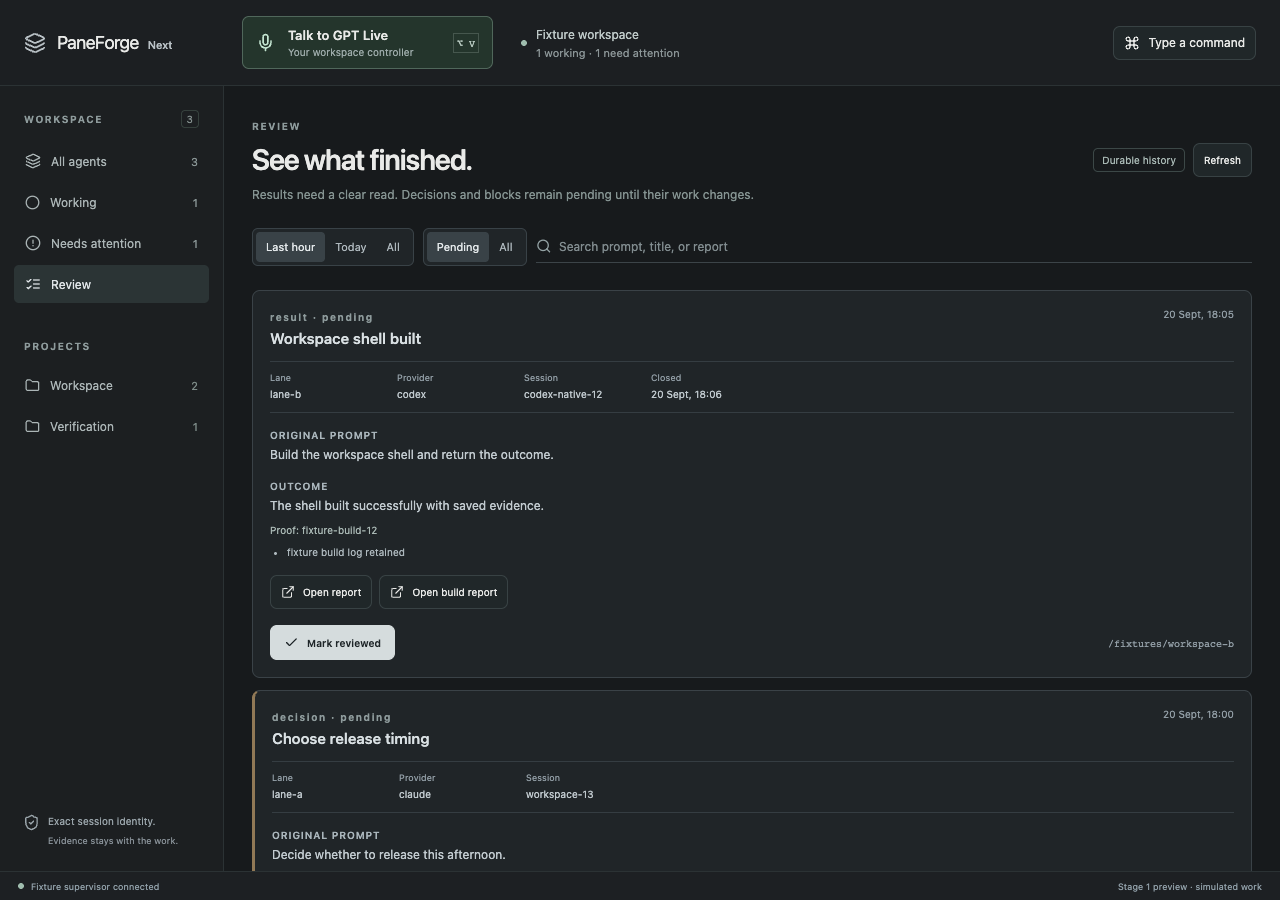
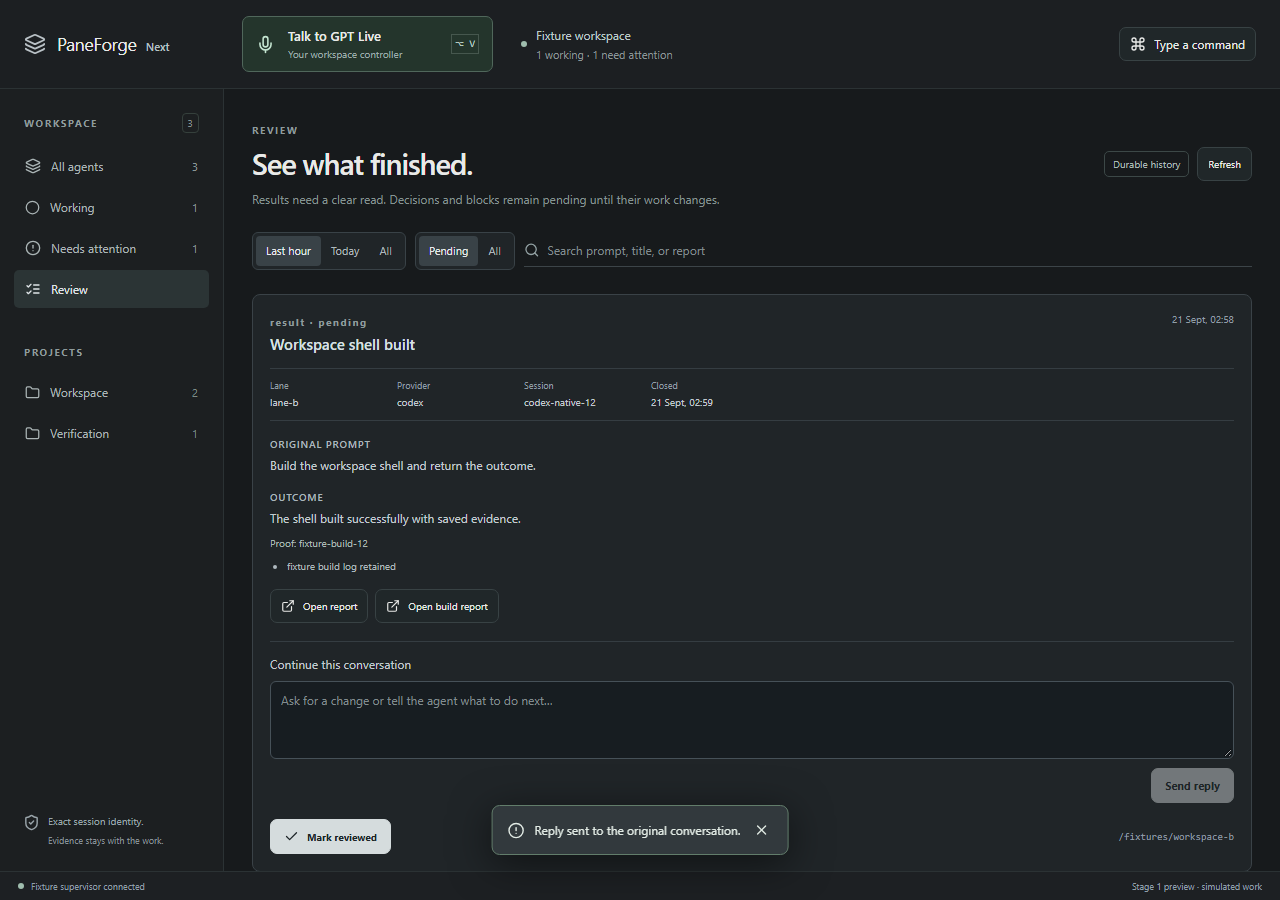
feat(next): retain review replies and require PC browser rendering

diff --git a/next/src/review.tsx b/next/src/review.tsx
@@ -40,13 +40,48 @@ const allowedLink = (value: string) => {
   }
 };
 
-export function Review({ setNotice, reviewOnly = false }: { setNotice: (value: string) => void; reviewOnly?: boolean }) {
+type ReplyDraft = { text: string; requestId: string };
+const DRAFT_KEY = "paneforge-review-replies";
+function savedDrafts(): Record<string, ReplyDraft> {
+  try {
+    const value = JSON.parse(localStorage.getItem(DRAFT_KEY) || "{}");
+    const drafts: Record<string, ReplyDraft> = {};
+    for (const [id, draft] of Object.entries(value)) {
+      const item = draft as ReplyDraft | null;
+      if (item && typeof item.text === "string" && typeof item.requestId === "string") drafts[id] = { text: item.text, requestId: item.requestId };
+    }
+    return drafts;
+  } catch { return {}; }
+}
+
+export function Review({ setNotice, reviewOnly = false, onContinue }: { setNotice: (value: string) => void; reviewOnly?: boolean; onContinue?: (sessionId: string) => void }) {
   const [response, setResponse] = useState<ReviewsResponse | null>(null);
   const [loading, setLoading] = useState(true);
   const [range, setRange] = useState<Range>("hour");
   const [showAll, setShowAll] = useState(false);
   const [query, setQuery] = useState("");
   const [updating, setUpdating] = useState<string | null>(null);
+  const [drafts, setDrafts] = useState(savedDrafts);
+  const [sending, setSending] = useState<string | null>(null);
+  function saveDrafts(next: Record<string, ReplyDraft>) {
+    setDrafts(next);
+    try { localStorage.setItem(DRAFT_KEY, JSON.stringify(next)); }
+    catch { setNotice("This reply is kept in this window, but could not be saved for restart."); }
+  }
+  async function reply(review: ReviewResult) {
+    const draft = drafts[review.id];
+    if (sending || !draft?.text.trim() || !review.nativeSessionId) return;
+    setSending(review.id);
+    try {
+      const result = await api<{ sessionId: string; nativeSessionId: string }>(`/api/reviews/${encodeURIComponent(review.id)}/reply`, draft);
+      if (!result.sessionId || result.nativeSessionId !== review.nativeSessionId) throw Error("The original conversation was not confirmed.");
+      const next = { ...drafts }; delete next[review.id]; saveDrafts(next);
+      setNotice("Reply sent to the original conversation.");
+      onContinue?.(result.sessionId);
+    } catch (error) {
+      setNotice(`Reply was not confirmed. Your draft is saved for retry: ${(error as Error).message}`);
+    } finally { setSending(null); }
+  }
 
   const refresh = async () => {
     setLoading(true);
@@ -135,6 +170,11 @@ export function Review({ setNotice, reviewOnly = false }: { setNotice: (value: s
         <section><h3>Original prompt</h3><p className="review-copy">{review.prompt || "No original prompt was recorded."}</p></section>
         <section><h3>Outcome</h3><p className="review-copy">{review.report || "No report was recorded."}</p>{review.proof && <p className="review-proof">Proof: {review.proof}</p>}{review.evidence?.length ? <ul className="review-evidence" aria-label="Evidence">{review.evidence.map((entry, index) => <li key={`${entry}-${index}`}>{entry}</li>)}</ul> : null}</section>
         <div className="review-links"><button className="quiet" onClick={() => void openLink(review, { label: "Open report", url: "https://report.local" }, -1)}><ExternalLink size={14} />Open report</button>{review.links.map((link, index) => <button key={`${link.url}-${index}`} className="quiet" onClick={() => void openLink(review, link, index)} disabled={!allowedLink(link.url)} title={allowedLink(link.url) ? link.url : "Unsupported link address"}><ExternalLink size={14} />{link.label || "Open link"}</button>)}</div>
+        {!reviewOnly && review.nativeSessionId && <form className="review-reply" onSubmit={(event) => { event.preventDefault(); void reply(review); }}>
+          <label htmlFor={`reply-${review.id}`}>Continue this conversation</label>
+          <textarea id={`reply-${review.id}`} value={drafts[review.id]?.text || ""} disabled={sending !== null} placeholder="Ask for a change or tell the agent what to do next…" maxLength={24000} onChange={(event) => saveDrafts({ ...drafts, [review.id]: { text: event.target.value, requestId: crypto.randomUUID() } })} />
+          <button className="primary" type="submit" disabled={sending !== null || !drafts[review.id]?.text.trim()}>{sending === review.id ? "Sending…" : "Send reply"}</button>
+        </form>}
         <footer>{review.kind === "result" ? <button className="primary" disabled={updating === review.id} onClick={() => void acknowledge(review, !review.reviewedAt)}><Check size={15} />{updating === review.id ? "Saving…" : review.reviewedAt ? "Mark unreviewed" : "Mark reviewed"}</button> : <p className="review-pending">{review.kind === "decision" ? "Decision remains pending." : review.kind === "blocked" ? "Block remains pending." : "This closed session has no completion result."}</p>}{review.cwd && <code>{review.cwd}</code>}</footer>
       </article>)}
     </section>

diff --git a/next/src/workspace.tsx b/next/src/workspace.tsx
@@ -623,7 +623,7 @@ export function WorkspaceApp() {
             </p>
           </div>
         </nav>
-        {view === "review" ? <Review setNotice={setNotice} reviewOnly={reviewOnly} /> : <>
+        {view === "review" ? <Review setNotice={setNotice} reviewOnly={reviewOnly} onContinue={(id) => { setSelectedId(id); setView("workspace"); window.location.hash = ""; }} /> : <>
         <main className="agent-field" id="agent-field" tabIndex={-1}>
           <div className="field-heading">
             <div>

diff --git a/next/src/workspace.css b/next/src/workspace.css
@@ -1235,3 +1235,8 @@ dd {
     gap: 8px;
   }
 }
+
+.review-reply { display: grid; gap: 9px; margin-top: 18px; padding-top: 14px; border-top: 1px solid #353d42; }
+.review-reply label { font-size: 12px; color: #c2cbd0; }
+.review-reply textarea { min-height: 78px; width: 100%; resize: vertical; padding: 10px; border: 1px solid #465158; border-radius: 6px; background: #171d21; color: #d9e0e3; font: inherit; font-size: 12px; }
+.review-reply button { justify-self: end; font-size: 11px; }

diff --git a/next/evidence/review/README.md b/next/evidence/review/README.md
@@ -12,6 +12,21 @@ failure, successful and failed report opening, decision separation, undo, closed
 labels, and retained-history search. The separate review-server-test.mjs exercises the
 real host's route boundary, origin/host checks, and inability to control live sessions.
 
+The 2026-09-21 screenshots were rendered on `DESKTOP-CMSUCM1`, Windows, at
+`C:\Users\Gamer\rbuild\next`, after a successful remote TypeScript/Vite build.
+The review test also passed rejected reply, preserved draft after reload, retry with
+the same request ID, and selection of the confirmed original conversation. These
+reply endpoints were mocked; live provider continuation needs its separate runtime test.
+
+`node scripts/remote-render.mjs review` now checks the designated PC over SSH and
+uses the existing shared `claude-config/rbuild.mjs` transport. The two browser test
+entry points call `render-location.mjs` before launching Chromium. A direct Mac
+invocation was verified to refuse execution. After adding that guard, the initial
+wrapper rerun correctly deferred on an SSH connection reset despite Tailscale showing
+the PC online. This is failure-path evidence, not a successful rerun of the wrapper.
+There is no local rendering fallback. These tests exercise browser rendering only;
+no video rendering job was requested or executed as part of this verification.
+
 Runtime verification on 2026-09-20 used `npm run try -- --minimized --headless
 --profile=dev-b`. The real Electron preload saved a synthetic shell-session result;
 the shell was explicitly closed, and the Review HTTP host connected to those real IPC
